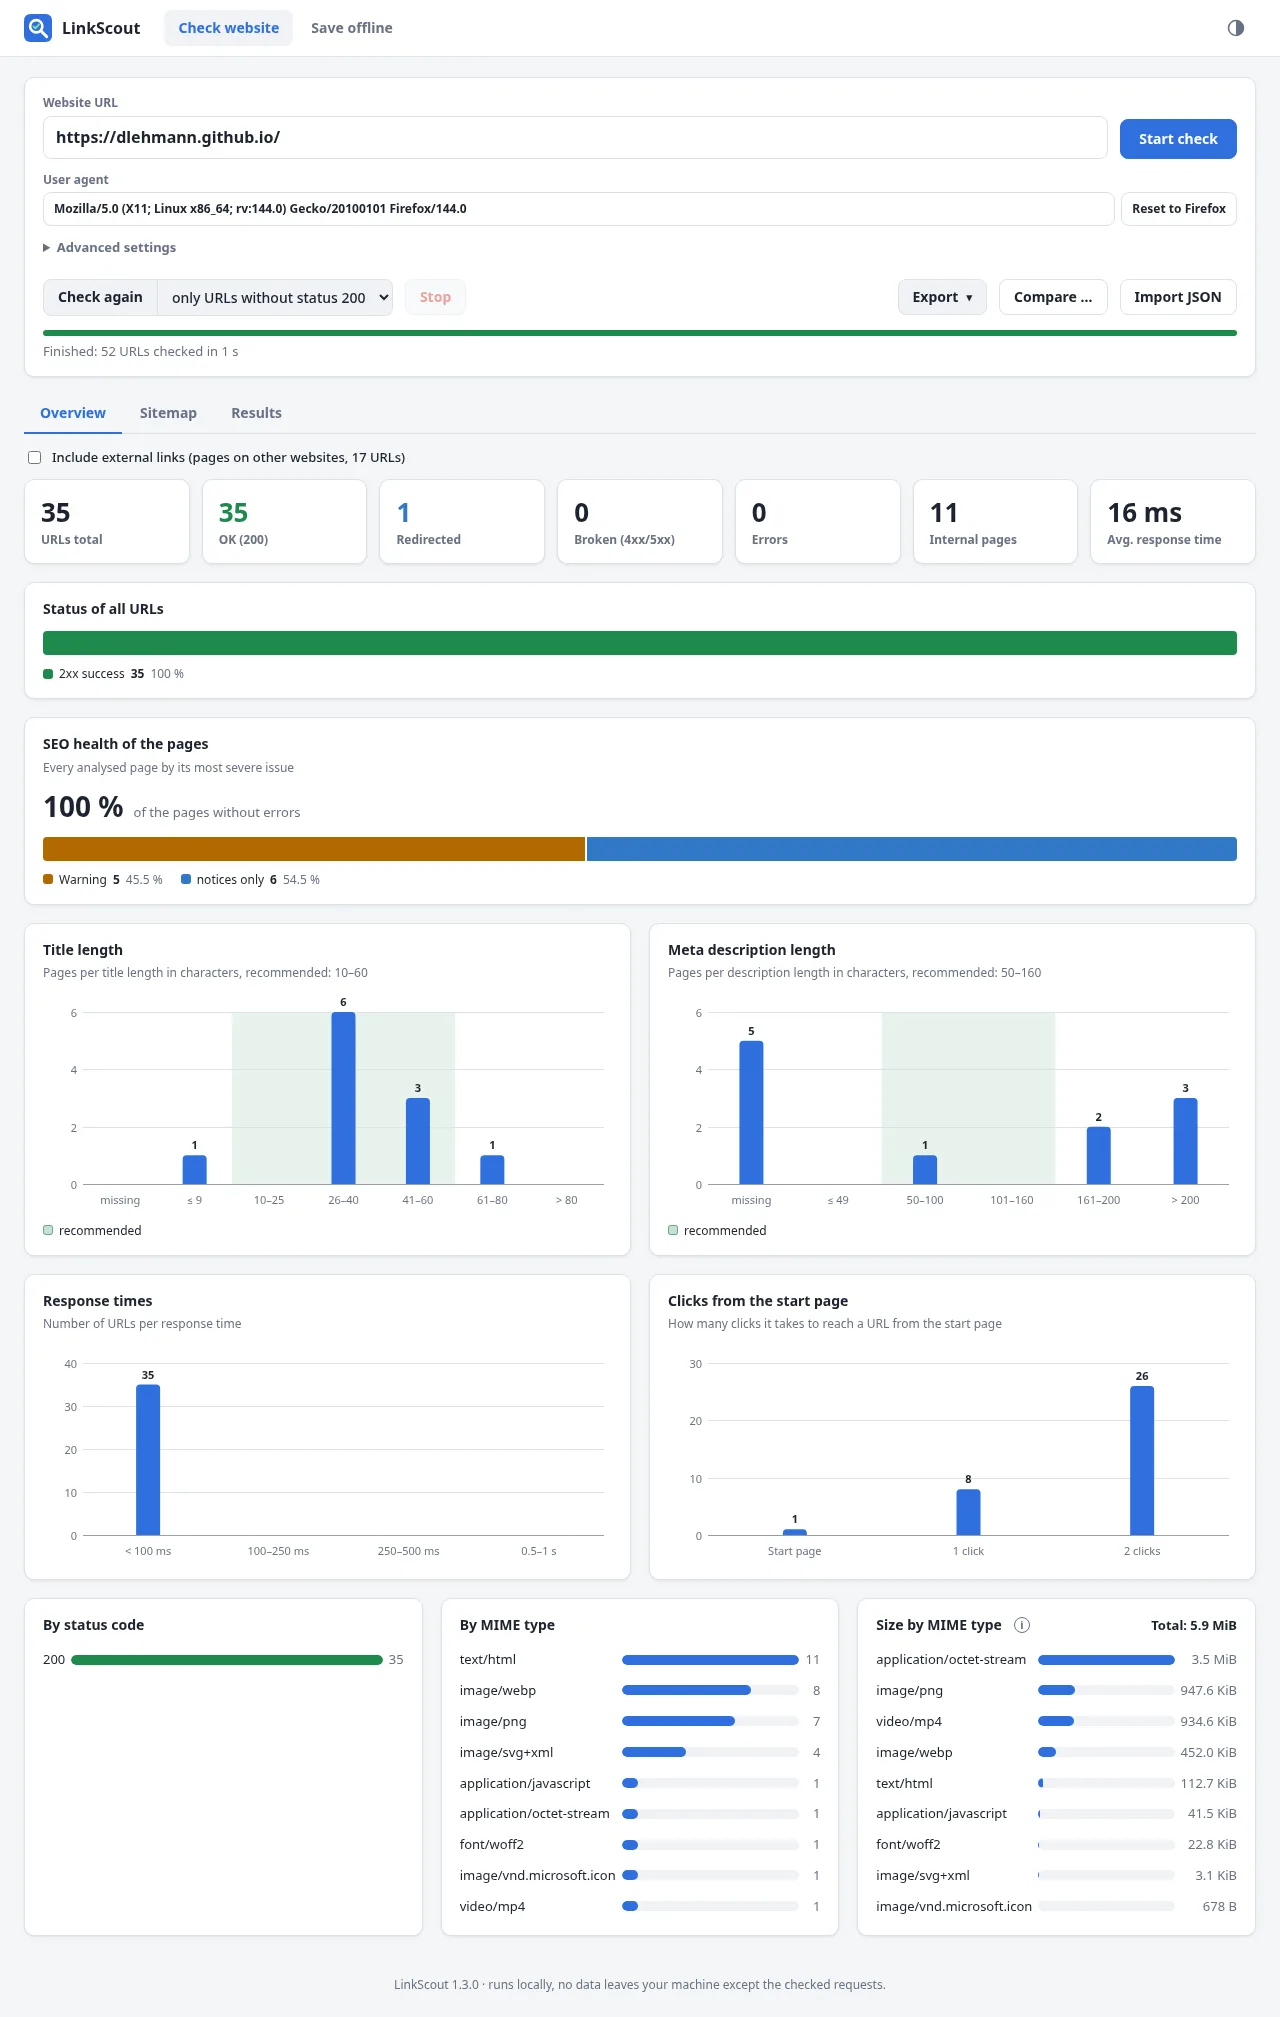
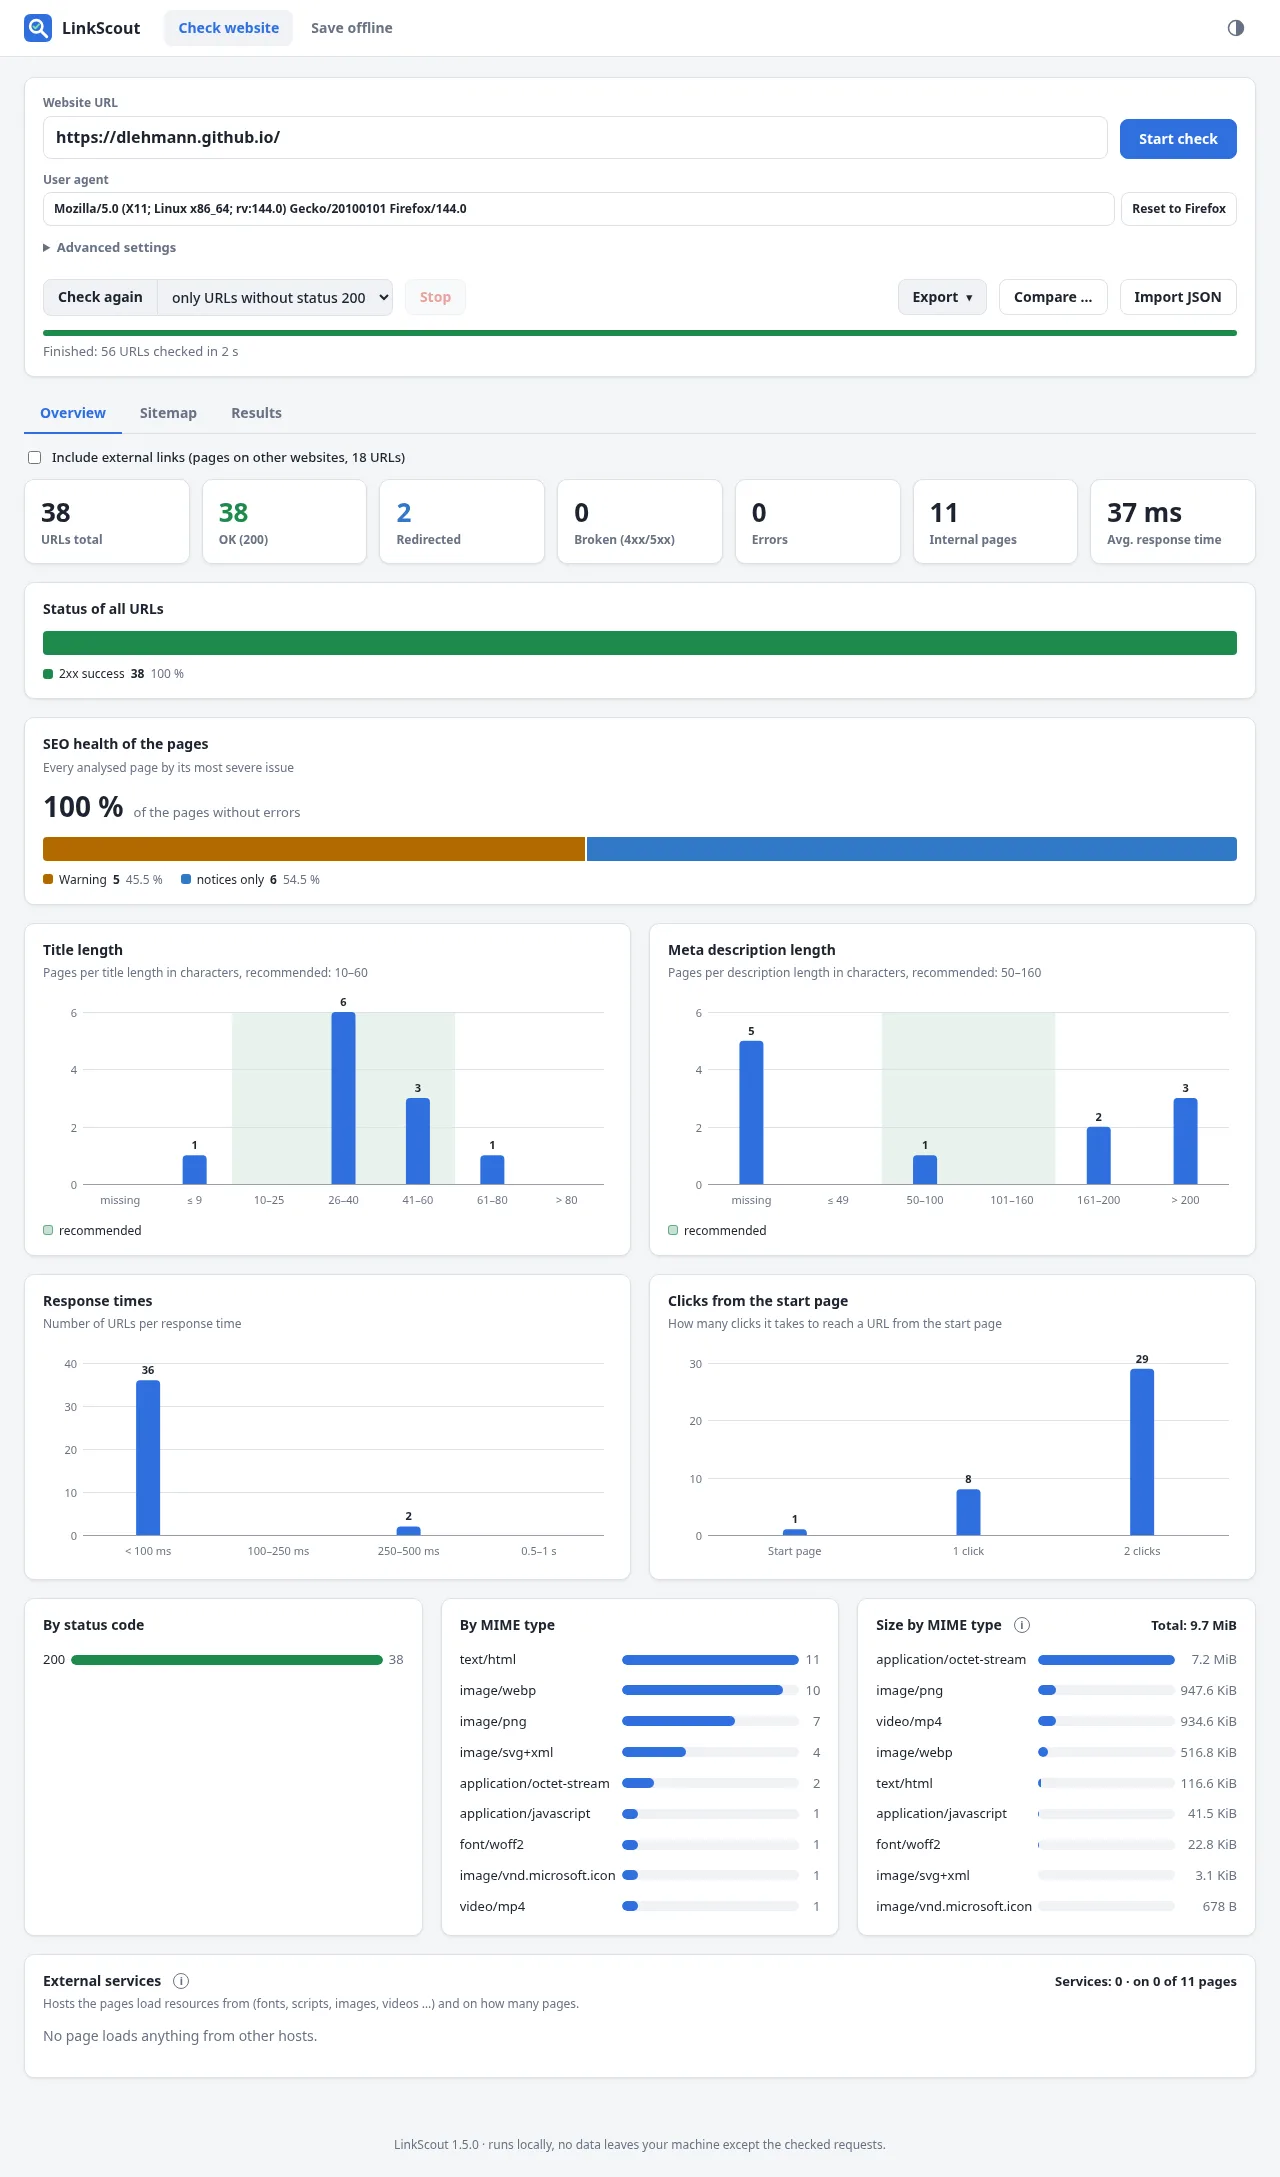
Docs, screenshots and changelog for 1.5.0; offline copy of a project site
- an offline copy of a sub-directory (https://user.github.io/edith/) only
  takes the sitemap pages below it, not every page of the host
- external services: hosts are [] instead of null in JSON
- website: external services, content search and list export, new
  section "Search, filter, export"; README; new screenshots
- CHANGELOG section 1.5.0

diff --git a/docs/index.html b/docs/index.html
@@ -4,11 +4,11 @@
   <meta charset="utf-8">
   <meta name="viewport" content="width=device-width, initial-scale=1">
   <title>LinkScout – website link checker, SEO audit and offline copies</title>
-  <meta name="description" content="LinkScout checks every link of a website – internal pages, external links and files –, runs 48 SEO checks and saves complete offline copies of websites. A single binary for Linux and macOS with a local web interface.">
+  <meta name="description" content="LinkScout checks every link of a website – internal pages, external links and files –, runs 48 SEO checks, shows the external services the pages load, searches their content and saves complete offline copies of websites. A single binary for Linux and macOS with a local web interface.">
   <link rel="canonical" href="https://dlehmann.github.io/linkscout/">
   <link rel="icon" href="linkscout.svg" type="image/svg+xml">
   <meta property="og:title" content="LinkScout">
-  <meta property="og:description" content="Check every link of a website, find SEO problems and save websites for offline use. Single binary, local web UI.">
+  <meta property="og:description" content="Check every link of a website, find SEO problems, see external services, search the content and save websites for offline use. Single binary, local web UI.">
   <meta property="og:image" content="https://dlehmann.github.io/linkscout/screenshots/overview-light.webp">
   <!--
     Project page of LinkScout. Plain HTML and CSS without fonts, scripts or
@@ -94,6 +94,7 @@
       <nav>
         <a href="#features">Features</a>
         <a href="#seo">SEO</a>
+        <a href="#search">Search</a>
         <a href="#sitemap">Sitemap</a>
         <a href="#offline">Offline copies</a>
         <a href="#install">Install</a>
@@ -103,7 +104,7 @@
 
     <div class="hero">
       <h1>Find every broken link<br>on your website.</h1>
-      <p class="lead">Enter the address of a website – LinkScout crawls all its pages, checks every internal page, external link, image, PDF and download, and runs 48 SEO checks. It can also save complete websites for offline use.</p>
+      <p class="lead">Enter the address of a website – LinkScout crawls all its pages, checks every internal page, external link, image, PDF and download, and runs 48 SEO checks. It shows which external services the pages load, searches their content and can save complete websites for offline use.</p>
       <div class="buttons">
         <a class="btn primary" href="#install">Download</a>
         <a class="btn" href="https://github.com/dlehmann/linkscout">Source on GitHub</a>
@@ -114,7 +115,7 @@
     <div class="shot">
       <picture>
         <source media="(prefers-color-scheme: dark)" srcset="screenshots/overview-dark.webp">
-        <img src="screenshots/overview-light.webp" width="1280" height="2017" alt="LinkScout overview: key figures, status of all URLs, response times and clicks from the start page">
+        <img src="screenshots/overview-light.webp" width="1280" height="2177" alt="LinkScout overview: key figures, status of all URLs, SEO health, response times, clicks from the start page and external services">
       </picture>
     </div>
   </div>
@@ -126,22 +127,34 @@
       <div class="grid">
         <div class="card"><h3>One input</h3><p>Only the start URL is needed. LinkScout finds all internal pages by itself and checks each URL exactly once.</p></div>
         <div class="card"><h3>All kinds of links</h3><p>Internal pages, links to other websites (including where redirects end up) and files: images, PDFs, CSS, JavaScript, fonts, videos.</p></div>
-        <div class="card"><h3>Overview with charts</h3><p>Status of all URLs, response times, clicks from the start page, status codes and size by MIME type. Click any figure to see the matching URLs.</p></div>
+        <div class="card"><h3>Overview with charts</h3><p>Status of all URLs, response times, clicks from the start page, status codes, size by MIME type and external services. Click any figure to see the matching URLs.</p></div>
+        <div class="card"><h3>External services</h3><p>Which hosts your pages load fonts, statistics, videos, maps or scripts from – Google Fonts, Tag Manager, YouTube … – and on how many pages. Handy for the privacy policy.</p></div>
+        <div class="card"><h3>Content search</h3><p>Search the text or the HTML source of all pages as you type: an old phone number, the former company name, a forgotten tracking code. Regular expressions included.</p></div>
         <div class="card"><h3>Sortable, filterable list</h3><p>URL, status, MIME type, title, kind, clicks, size, time and SEO issues – filter by every value, open details with redirect chain, SEO data and the pages that link to a URL.</p></div>
         <div class="card"><h3>Sitemap and robots.txt</h3><p>The URLs of your sitemap are checked too – pages that are listed there but linked nowhere show up as orphans. URLs blocked by robots.txt are marked.</p></div>
         <div class="card"><h3>Compare runs</h3><p>Compare the results with an earlier report: new and removed URLs, changed status codes, new and fixed SEO issues.</p></div>
-        <div class="card"><h3>Export and re-check</h3><p>HTML and PDF reports with every chart of the overview and the details of each URL; JSON and CSV exports with all data. Import a report later and re-check only the URLs that failed – or everything.</p></div>
+        <div class="card"><h3>Export and re-check</h3><p>HTML and PDF reports with every chart of the overview and the details of each URL; JSON and CSV exports with all data – of the whole site or just the filtered list. Import a report later, search it and re-check only the URLs that failed – or everything.</p></div>
         <div class="card"><h3>Password protected sites</h3><p>HTTP Basic authentication is supported. Credentials are only sent to the checked site and never stored in reports.</p></div>
       </div>
     </div>
   </section>
 
-  <section>
-    <div class="wrap">
+  <section id="search">
+    <div class="wrap split">
+      <div>
+        <h2>Search, filter, export</h2>
+        <p>The results list holds every URL with its status, title, MIME type, kind, clicks, date, size, time and SEO issues. Filter by any of them, sort, and open the details of a URL with its redirect chain, the pages that link to it and the external services it loads.</p>
+        <ul>
+          <li><b>Content search:</b> the visible text or the HTML source of all pages, as you type – plain text or regular expression. Every page shows its matches in context.</li>
+          <li><b>External services:</b> filter the pages that load fonts, statistics, videos or maps from a certain host.</li>
+          <li><b>Export the list:</b> exactly what the list shows, in its order – as CSV, JSON, a detailed PDF or a one-line-per-URL summary.</li>
+          <li><b>Search later:</b> JSON reports keep the page content, so an imported report can be searched again.</li>
+        </ul>
+      </div>
       <div class="shot">
         <picture>
           <source media="(prefers-color-scheme: dark)" srcset="screenshots/results-dark.webp">
-          <img src="screenshots/results-light.webp" width="1280" height="900" alt="Results list with filters for kind, status, MIME type, click depth and response time" loading="lazy">
+          <img src="screenshots/results-light.webp" width="1280" height="900" alt="Results list with a content search, filters and the matches of every page" loading="lazy">
         </picture>
       </div>
     </div>
@@ -253,6 +266,7 @@ make install PREFIX=$HOME/.local   # binary, desktop launcher and icon</code></p
 linkscout -report report.html https://example.com      # … or a readable report (.html, .pdf, .csv)
 linkscout -recheck report.json                          # re-check the failed URLs
 linkscout -report new.json -compare report.json https://example.com  # what changed?
+linkscout -search "old-company.example" https://example.com    # pages that still mention it
 linkscout -mirror ./example-offline https://example.com # offline copy</code></pre>
       <p>All releases with checksums: <a href="https://github.com/dlehmann/linkscout/releases">github.com/dlehmann/linkscout/releases</a></p>
     </div>

diff --git a/internal/mirror/mirror.go b/internal/mirror/mirror.go
@@ -208,11 +208,17 @@ func Run(ctx context.Context, cfg Config, notify func(Progress)) (Progress, erro
 	r.wg.Wait()
 
 	// Pages of the sitemap that no link leads to come after the linked ones,
-	// so MaxPages keeps the linked pages.
+	// so MaxPages keeps the linked pages. Only those below the start
+	// directory: the sitemap of https://user.github.io/ lists every project
+	// site, a copy of https://user.github.io/edith/ wants only edith.
 	if cfg.Sitemap && ctx.Err() == nil {
 		urls := robots.SitemapURLs(ctx, r.client, start, rb)
+		base := BaseDir(start)
 		r.mu.Lock()
 		for _, u := range urls {
+			if pu, err := url.Parse(u); err != nil || !strings.HasPrefix(pu.Path, base) {
+				continue
+			}
 			r.add(ctx, u, "", true, false)
 		}
 		r.mu.Unlock()

diff --git a/internal/mirror/features_test.go b/internal/mirror/features_test.go
@@ -223,6 +223,17 @@ func TestMirrorFeatures(t *testing.T) {
 	if _, err := Run(context.Background(), Config{StartURL: fs.URL, OutDir: dir3, Rules: []string{"*.png"}}, nil); err == nil {
 		t.Error("invalid rule accepted")
 	}
+
+	// A copy of a sub-directory (a project site) takes only the sitemap
+	// pages below it: /orphan is outside of /a/.
+	dir4 := t.TempDir()
+	if _, err := Run(context.Background(), Config{StartURL: fs.URL + "/a/", OutDir: dir4, Sitemap: true}, nil); err != nil {
+		t.Fatal(err)
+	}
+	read(t, dir4, "index.html")
+	if _, err := os.Stat(filepath.Join(dir4, "_site", "orphan")); err == nil {
+		t.Error("sitemap page outside of the start directory saved")
+	}
 }
 
 func TestMirrorUpdate(t *testing.T) {

diff --git a/internal/crawler/thirdparty.go b/internal/crawler/thirdparty.go
@@ -179,7 +179,7 @@ type ThirdPartyHost struct {
 // NewThirdParty computes the external services over all analysed pages;
 // nil when no page was analysed.
 func NewThirdParty(rs []Result) *ThirdPartyOverview {
-	o := &ThirdPartyOverview{}
+	o := &ThirdPartyOverview{Hosts: []ThirdPartyHost{}} // [] rather than null in JSON
 	type acc struct {
 		ThirdPartyHost
 		urls map[string]bool

diff --git a/CHANGELOG.md b/CHANGELOG.md
@@ -5,7 +5,7 @@ All notable changes to LinkScout. The format follows
 [Semantic Versioning](https://semver.org/). The release workflow uses the
 section of a version as release notes.
 
-## [Unreleased]
+## [1.5.0] - 2026-10-22
 
 ### Added
 
@@ -35,7 +35,7 @@ section of a version as release notes.
   "Continue"; "Download everything again" (`-mirror-fresh`) starts over.
 - **Save offline – what belongs to the copy**: files linked on other
   websites (PDFs, images, archives; `-mirror-external-files`), the pages of
-  `sitemap.xml` that no link leads to, and files that JavaScript refers to
+  `sitemap.xml` that no link leads to (below the start directory), and files that JavaScript refers to
   (`"/img/slide-2.jpg"`) are downloaded too; robots.txt can be respected
   (off by default, `-mirror-robots`), blocked URLs are listed; rules include or
   exclude URLs (`-/private/* -*.zip +cdn.example.com/*`, `-mirror-rules`).
@@ -205,7 +205,7 @@ First public release.
 - English and German UI by system language
 - Static binaries for Linux (x86_64, arm64) and macOS (Apple Silicon)
 
-[Unreleased]: https://github.com/dlehmann/linkscout/compare/v1.4.0...HEAD
+[1.5.0]: https://github.com/dlehmann/linkscout/compare/v1.4.0...v1.5.0
 [1.4.0]: https://github.com/dlehmann/linkscout/compare/v1.3.0...v1.4.0
 [1.3.0]: https://github.com/dlehmann/linkscout/compare/v1.2.0...v1.3.0
 [1.2.0]: https://github.com/dlehmann/linkscout/compare/v1.1.0...v1.2.0

diff --git a/README.md b/README.md
@@ -126,7 +126,7 @@ the checked site.
 
 | SEO in the overview | Results |
 |---|---|
-| <picture><source media="(prefers-color-scheme: dark)" srcset="docs/screenshots/seo-dark.webp"><img src="docs/screenshots/seo-light.webp" alt="SEO health and length of titles and descriptions"></picture> | <picture><source media="(prefers-color-scheme: dark)" srcset="docs/screenshots/results-dark.webp"><img src="docs/screenshots/results-light.webp" alt="Results list with filters"></picture> |
+| <picture><source media="(prefers-color-scheme: dark)" srcset="docs/screenshots/seo-dark.webp"><img src="docs/screenshots/seo-light.webp" alt="SEO health and length of titles and descriptions"></picture> | <picture><source media="(prefers-color-scheme: dark)" srcset="docs/screenshots/results-dark.webp"><img src="docs/screenshots/results-light.webp" alt="Results list with content search and filters"></picture> |
 
 | Site structure | Save offline |
 |---|---|

diff --git a/AGENTS.md b/AGENTS.md
@@ -267,7 +267,8 @@ have to wait for SSH.
   `Robots` (off by default in UI and CLI, like the check ignores it; CLI
   `-mirror-robots`) skips URLs of the
   site that robots.txt ("*" group) disallows; they are listed as
-  `Problem.Robots`. `Sitemap` adds the sitemap pages after the link crawl
+  `Problem.Robots`. `Sitemap` adds the sitemap pages below `BaseDir` (a project site does
+  not get the whole host from its sitemap) after the link crawl
   (like the crawler; CLI `-no-sitemap`). Scripts are searched for quoted
   URLs/paths with a known extension (`mirror/scripts.go`; relative paths
   only in inline scripts, script files only when internal and ≤5 MiB);
